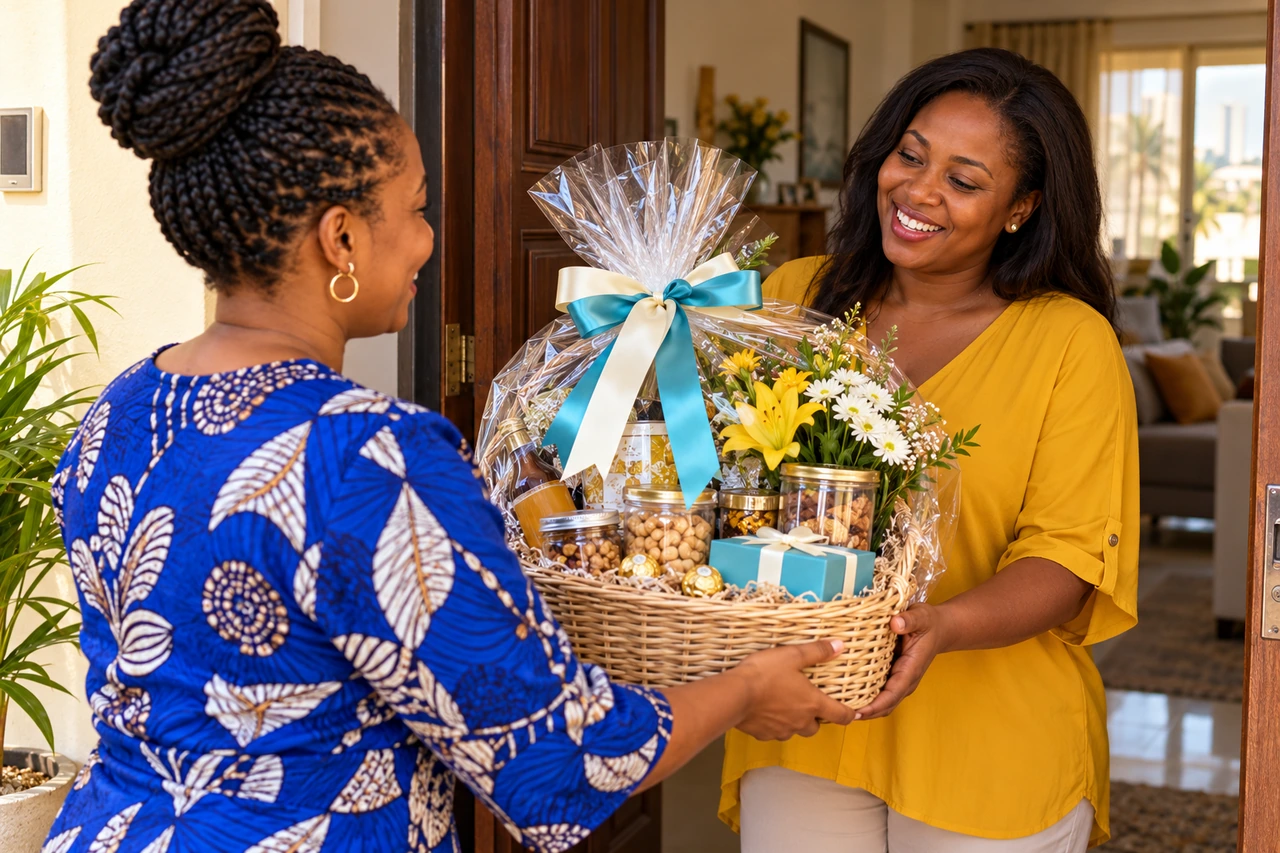
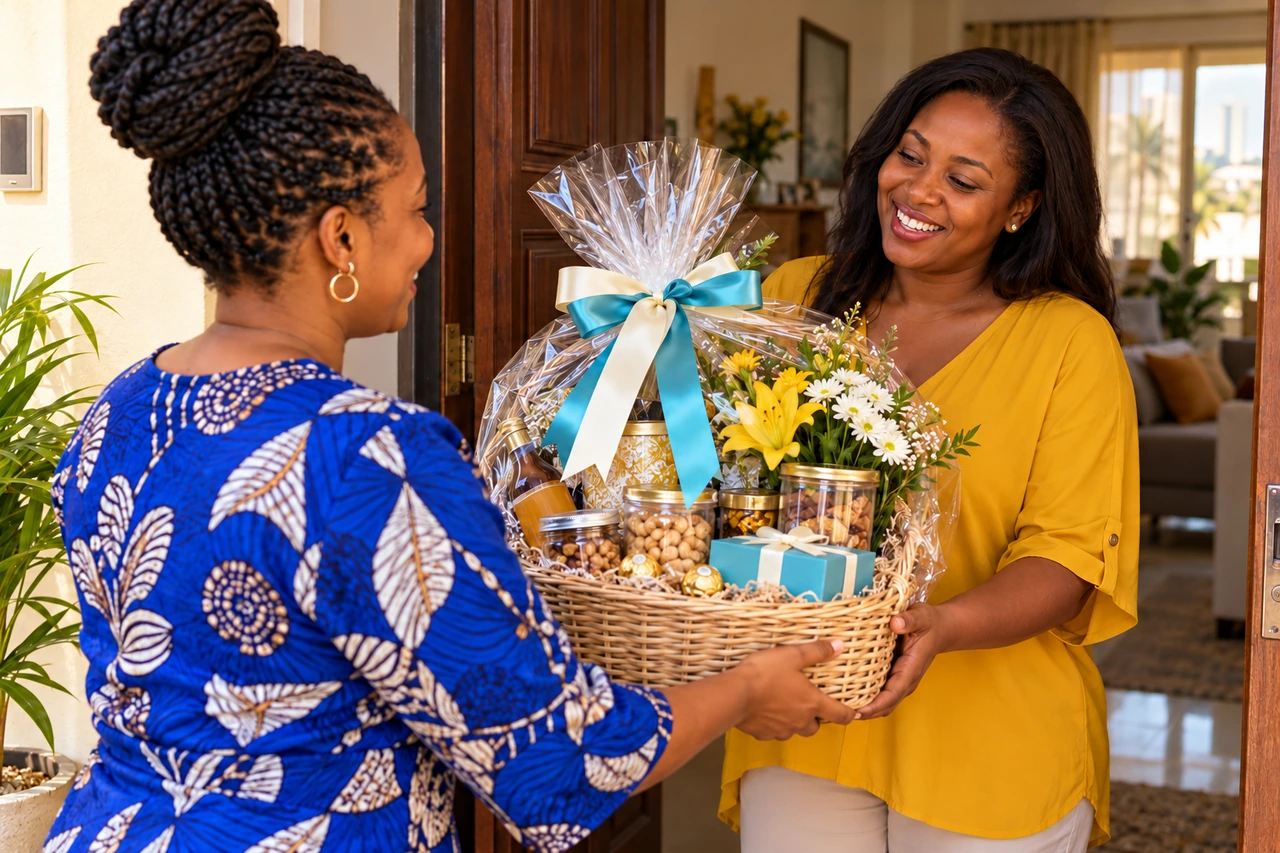
Remove image lettering and advance quiz answers with one tap

diff --git a/quiz.js b/quiz.js
@@ -250,16 +250,9 @@ function renderQuestion() {
   });
   app.querySelectorAll('.choice').forEach(button => button.addEventListener('click', () => {
     answers[questionIndex] = Number(button.dataset.answer);
-    app.querySelectorAll('.choice').forEach(choice => choice.disabled = true);
-    button.classList.add('selected');
-    const feedback = app.querySelector('.answer-feedback');
-    feedback.textContent = question.feedback[answers[questionIndex]];
-    feedback.hidden = false;
-    answerTimer = window.setTimeout(() => {
-      if (questionIndex === questions.length - 1) screen = 'loading';
-      else questionIndex += 1;
-      render();
-    }, 1300);
+    if (questionIndex === questions.length - 1) screen = 'loading';
+    else questionIndex += 1;
+    render();
   }));
 }
 
